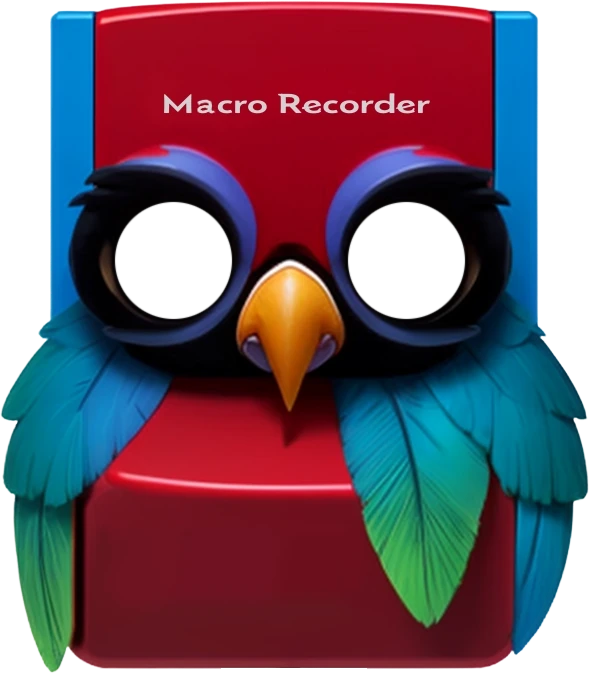
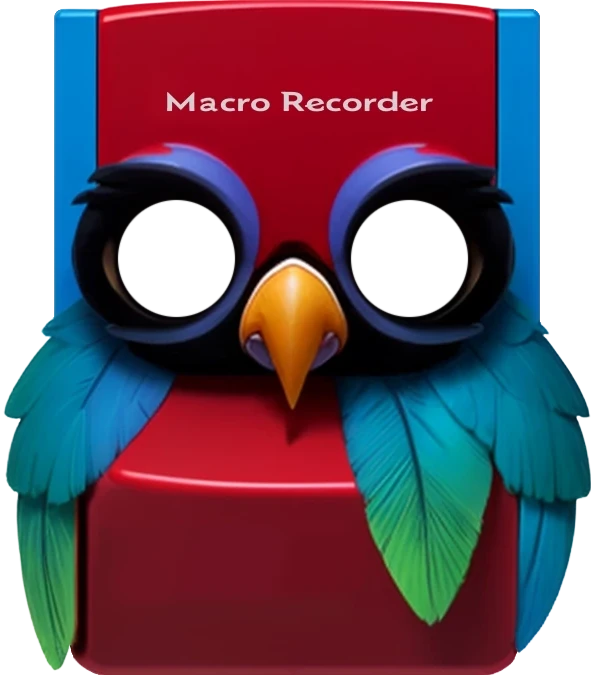
Align macro recorder to the milimeter grid

diff --git a/src/library_macro_recorder.cc b/src/library_macro_recorder.cc
@@ -32,18 +32,28 @@ using namespace maf;
 
 DEFINE_PROTO(MacroRecorder);
 
-const char kMacroRecorderShapeSVG[] = R"(m 3.78,-48.4
-c 0,-0.58 0.49,-0.76 0.7,-0.76 0.6,0 2.62,0.04 2.62,0.04 0,0 3.06,-0.82 14.29,-0.82 11.22,0 15.12,0.75 15.12,0.75 0,0 2.17,0.03 2.69,0.03 0.46,0 0.75,0.41 0.75,0.62
-l -0.02,22.69 0.65,0.77 -0.51,0.05
-c 0.93,1 3.91,5.67 3.45,6.1 -0.28,0.26 -0.72,-0.3 -0.91,-0.06 -0.13,0.21 1.77,4.6 0.88,5.9 -0.29,0.42 -0.86,0 -0.88,0.48 -0.37,7.53 -3.59,11.03 -4.34,11.19 -0.09,-0.13 -0.17,-0.35 -0.17,-0.35 0,0 -0.83,1.21 -2.5,1.3 -1.67,0.1 -27.23,0.07 -28.13,0.01 -1.48,-0.1 -2.45,-1.67 -2.45,-1.67 0,0 -0.5,2.05 -1.24,2.03 -2.94,-4.1 -2.8,-12.41 -2.64,-13.19 -2.07,-0.62 -0.06,-5.09 0.28,-5.51 -0.44,-0.04 -1.31,0.06 -1.34,-0.49 -0.03,-0.54 1.43,-3.42 3.47,-5.58 -0.03,-0.14 -0.64,-0.08 -0.65,-0.3 -0.02,-0.41 0.86,-1.08 0.86,-1.08
-z)";
+const char kMacroRecorderShapeSVG[] =
+    R"(m3.78-48.4c0-.58.49-.76.7-.76.6 0 2.62.04 2.62.04 0 0 3.06-.82 14.29-.82 11.22 0 15.12.75 15.12.75 0 0 2.17.03 2.69.03.46 0 .75.41.75.62l-.02 22.69.65.77-.51.05c.93 1 3.91 5.67 3.45 6.1-.28.26-.72-.3-.91-.06-.13.21 1.77 4.6.88 5.9-.29.42-.86 0-.88.48-.37 7.53-3.59 11.03-4.34 11.19-.09-.13-.17-.35-.17-.35 0 .97-.9 2.07-1.9 2.07-1.7 0-27.1 0-28.9 0-.9 0-2.2-1.2-2.3-2.3-.15.17-.5 2.05-1.24 2.03-2.94-4.1-2.8-12.41-2.64-13.19-2.07-.62-.06-5.09.28-5.51-.44-.04-1.31.06-1.34-.49-.03-.54 1.43-3.42 3.47-5.58-.03-.14-.64-.08-.65-.3-.02-.41.86-1.08.86-1.08z)";
 
 constexpr float kEyeRadius = 9_mm / 2;
-const Vec2 kLeftEyeCenter = {12.8875_mm, 30.6385_mm};
-const Vec2 kRightEyeCenter = {30.2075_mm, 30.6385_mm};
+const Vec2 kLeftEyeCenter = {13_mm, 30.9_mm};
+const Vec2 kRightEyeCenter = {30.2_mm, 30.9_mm};
+
+constexpr float kHeight = 5_cm;
 
 static SkPath& MacroRecorderShape() {
-  static auto path = PathFromSVG(kMacroRecorderShapeSVG, SVGUnit_Millimeters);
+  static auto path = []() {
+    auto path = PathFromSVG(kMacroRecorderShapeSVG, SVGUnit_Millimeters);
+    auto bounds = path.getBounds();
+    // scale to kHeight
+    float scale = kHeight / bounds.height();
+    path.transform(SkMatrix::Scale(scale, scale));
+    // align bottom edge to 0
+    bounds = path.getBounds();
+    path.transform(SkMatrix::Translate(0.25_mm, -bounds.fTop));
+
+    return path;
+  }();
   return path;
 }
 
@@ -501,6 +511,16 @@ void GlassRunButton::PointerLeave(gui::Pointer&, animation::Display& display) {
       connection_widget->animation_state[display].prototype_alpha_target = 0;
     }
   }
+}
+
+Vec2AndDir MacroRecorder::ArgStart(const Argument& arg) {
+  if (&arg == &timeline_arg) {
+    return Vec2AndDir{
+        .pos = {22_mm, 0},
+        .dir = -90_deg,
+    };
+  }
+  return Object::ArgStart(arg);
 }
 
 void MacroRecorder::SerializeState(Serializer& writer, const char* key) const {
